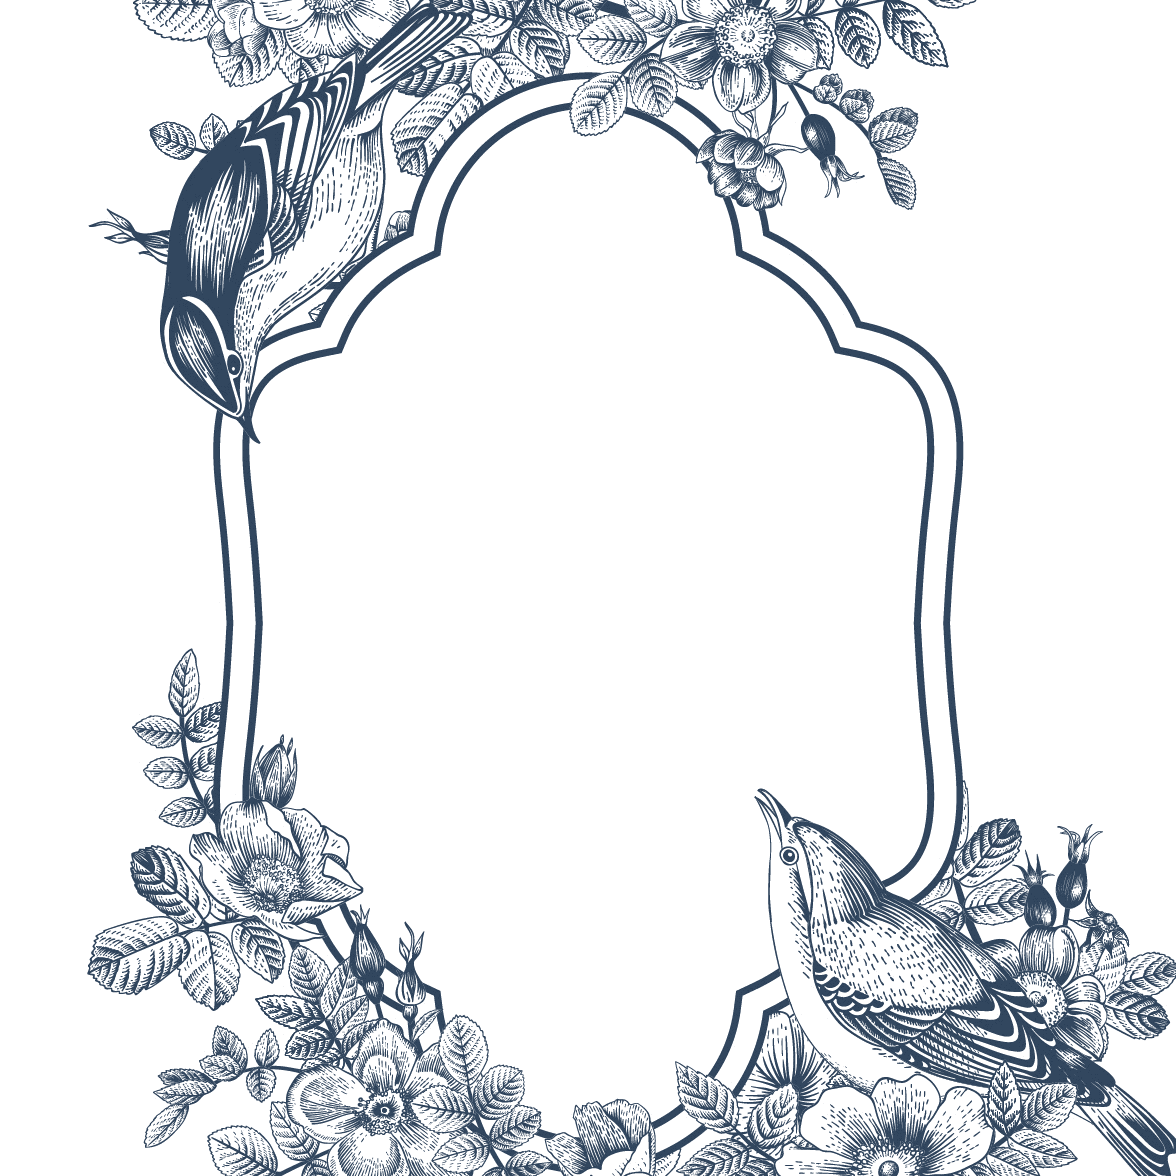
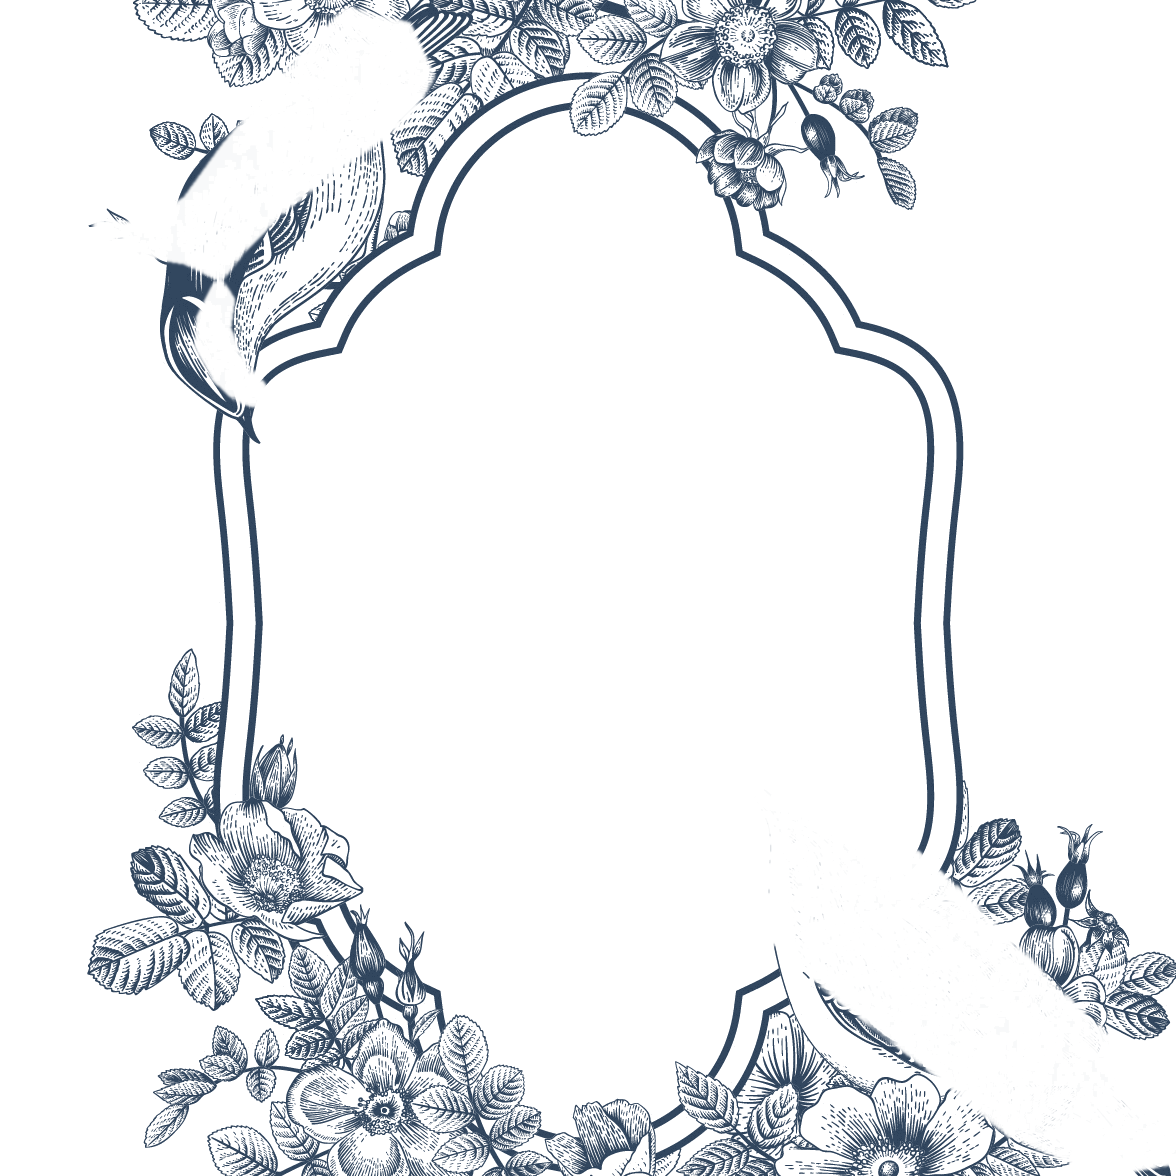
표지 새를  hop 애니메이션으로 움직이게 한다
잘린 테두리 새를 분리해 참새처럼 짧게 뛰게 하고, 표지는 화면 안에 전체가 들어오도록 키운다.

Changed region(s): [[0.6429, 0.6735, 1.0, 1.0], [0.0918, 0.0, 0.3673, 0.3673]]

diff --git a/src/sections/HeroRef.module.css b/src/sections/HeroRef.module.css
@@ -4,16 +4,18 @@
   align-items: center;
   justify-content: center;
   min-height: 100svh;
-  padding: calc(env(safe-area-inset-top) + 1.4rem) 1rem 1.4rem;
-  gap: 1.8rem;
+  width: 100vw;
+  margin-left: calc(50% - 50vw);
+  padding: calc(env(safe-area-inset-top) + 1.2rem) 0.75rem 1.2rem;
+  gap: 1.1rem;
   background: #f7f4ec;
   color: #2b4059;
+  box-sizing: border-box;
 }
 
 .card {
   position: relative;
-  width: 100%;
-  max-width: 27.5rem;
+  width: min(100%, calc(100svh - 7.2rem));
   aspect-ratio: 1;
   container-type: inline-size;
 }
@@ -28,6 +30,134 @@
 
 .frame {
   object-fit: contain;
+  max-width: none;
+  z-index: 0;
+}
+
+.plate {
+  z-index: 2;
+}
+
+.hoppers {
+  position: absolute;
+  inset: 0;
+  z-index: 1;
+  pointer-events: none;
+}
+
+.hopper {
+  position: absolute;
+  line-height: 0;
+}
+
+.hopper img {
+  display: block;
+  width: 100%;
+  height: auto;
+  max-width: none;
+}
+
+.hopperTl {
+  left: 7.738%;
+  top: 0.51%;
+  width: 29.252%;
+  transform-origin: 38% 78%;
+  animation: hopShiftTl 7.2s infinite;
+}
+
+.hopperBr {
+  left: 64.116%;
+  top: 67.007%;
+  width: 35.884%;
+  transform-origin: 42% 86%;
+  animation: hopShiftBr 7.2s 0.18s infinite;
+}
+
+.hopperBob {
+  transform-origin: inherit;
+  animation: hopBob 0.4s infinite;
+}
+
+@keyframes hopBob {
+  0% {
+    transform: translateY(0) scale(1.07, 0.84);
+  }
+  22% {
+    transform: translateY(-1.25cqw) scale(0.95, 1.12);
+  }
+  42% {
+    transform: translateY(0) scale(1.05, 0.9);
+  }
+  58%,
+  100% {
+    transform: translateY(0) scale(1, 1);
+  }
+}
+
+@keyframes hopShiftTl {
+  0%,
+  5.55% { transform: translate(0, 0) rotate(0deg); }
+  5.56%,
+  11.1% { transform: translate(0.85%, 1.05%) rotate(2deg); }
+  11.12%,
+  16.66% { transform: translate(1.7%, 2.1%) rotate(4deg); }
+  16.67%,
+  22.21% { transform: translate(2.55%, 3.15%) rotate(6deg); }
+  22.22%,
+  27.77% { transform: translate(3.4%, 4.2%) rotate(7deg); }
+  27.78%,
+  33.32% { transform: translate(4.25%, 5.25%) rotate(8deg); }
+  33.33%,
+  49.99% { transform: translate(5.1%, 6.3%) rotate(9deg); }
+  50%,
+  55.54% { transform: translate(4.25%, 5.25%) rotate(8deg); }
+  55.55%,
+  61.1% { transform: translate(3.4%, 4.2%) rotate(7deg); }
+  61.11%,
+  66.65% { transform: translate(2.55%, 3.15%) rotate(6deg); }
+  66.66%,
+  72.21% { transform: translate(1.7%, 2.1%) rotate(4deg); }
+  72.22%,
+  77.76% { transform: translate(0.85%, 1.05%) rotate(2deg); }
+  77.77%,
+  100% { transform: translate(0, 0) rotate(0deg); }
+}
+
+@keyframes hopShiftBr {
+  0%,
+  5.55% { transform: translate(0, 0) rotate(0deg); }
+  5.56%,
+  11.1% { transform: translate(-0.9%, -0.95%) rotate(-2deg); }
+  11.12%,
+  16.66% { transform: translate(-1.8%, -1.9%) rotate(-4deg); }
+  16.67%,
+  22.21% { transform: translate(-2.7%, -2.85%) rotate(-5deg); }
+  22.22%,
+  27.77% { transform: translate(-3.6%, -3.8%) rotate(-6deg); }
+  27.78%,
+  33.32% { transform: translate(-4.5%, -4.75%) rotate(-7deg); }
+  33.33%,
+  49.99% { transform: translate(-5.4%, -5.7%) rotate(-8deg); }
+  50%,
+  55.54% { transform: translate(-4.5%, -4.75%) rotate(-7deg); }
+  55.55%,
+  61.1% { transform: translate(-3.6%, -3.8%) rotate(-6deg); }
+  61.11%,
+  66.65% { transform: translate(-2.7%, -2.85%) rotate(-5deg); }
+  66.66%,
+  72.21% { transform: translate(-1.8%, -1.9%) rotate(-4deg); }
+  72.22%,
+  77.76% { transform: translate(-0.9%, -0.95%) rotate(-2deg); }
+  77.77%,
+  100% { transform: translate(0, 0) rotate(0deg); }
+}
+
+@media (prefers-reduced-motion: reduce) {
+  .hopperTl,
+  .hopperBr,
+  .hopperBob {
+    animation: none;
+  }
 }
 
 .line {

diff --git a/src/sections/Hero.tsx b/src/sections/Hero.tsx
@@ -20,6 +20,28 @@ export default function Hero() {
           fetchPriority="high"
           className={styles.frame}
         />
+        <div className={styles.hoppers} aria-hidden="true">
+          <div className={`${styles.hopper} ${styles.hopperTl}`}>
+            <div className={styles.hopperBob}>
+              <img
+                src={`${import.meta.env.BASE_URL}assets/legacy/bird-tl.webp`}
+                alt=""
+                width="337"
+                height="401"
+              />
+            </div>
+          </div>
+          <div className={`${styles.hopper} ${styles.hopperBr}`}>
+            <div className={styles.hopperBob}>
+              <img
+                src={`${import.meta.env.BASE_URL}assets/legacy/bird-br.webp`}
+                alt=""
+                width="422"
+                height="384"
+              />
+            </div>
+          </div>
+        </div>
         <div className={styles.plate}>
           <img className={`${styles.line} ${styles.bouquet}`} src={`${import.meta.env.BASE_URL}assets/legacy/bouquet.webp`} alt="" width="90" height="111" />
           <p className={`${styles.line} ${styles.eyebrow}`}>Together with their families</p>

diff --git a/index.html b/index.html
@@ -8,7 +8,7 @@
   <meta charset="UTF-8" />
   <link rel="icon" type="image/svg+xml" href="/favicon.svg" />
   <meta name="viewport" content="width=device-width, initial-scale=1.0" />
-  <title>이도명 ♥ 변현진 결혼합니다</title>
+  <title>20261121 wedding card</title>
 </head>
 
 <body>

diff --git a/src/styles/global.css b/src/styles/global.css
@@ -6,6 +6,7 @@
 
 html {
   scroll-behavior: smooth;
+  overflow-x: clip;
 }
 
 /* Scrollbar styling */
